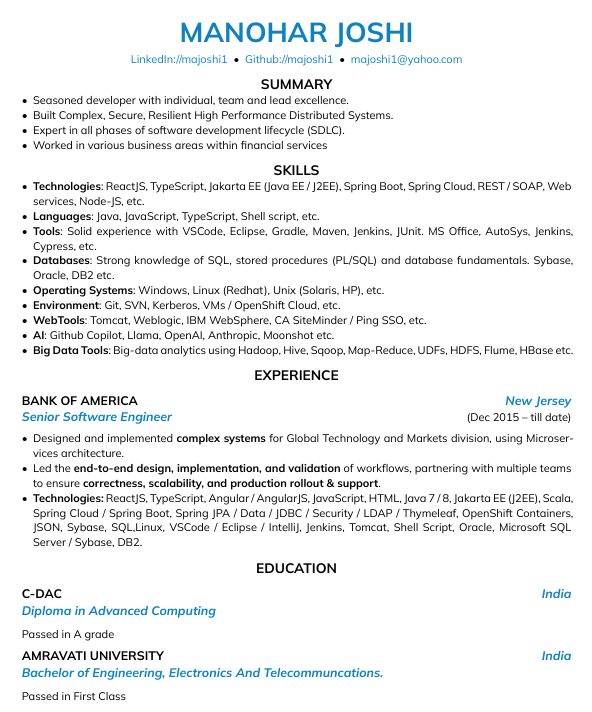
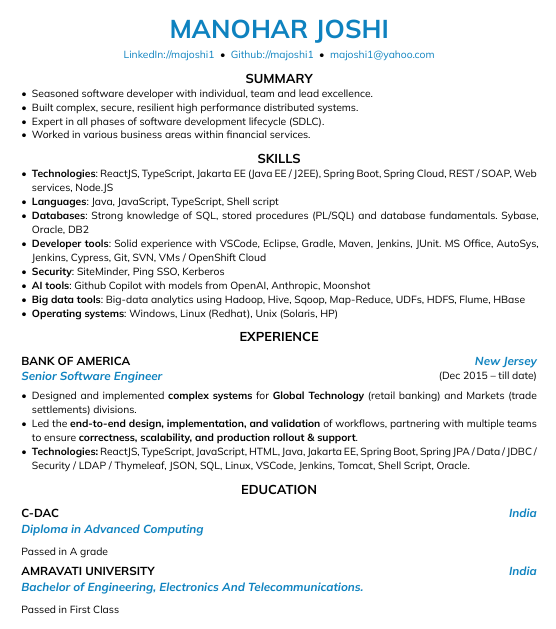
Update resume

diff --git a/resume.md b/resume.md
@@ -6,13 +6,13 @@
 • <majoshi1@yahoo.com>
 [**SUMMARY**]
 
-- Seasoned developer with individual, team and lead excellence.
+- Seasoned software developer with individual, team and lead excellence.
 
-- Built Complex, Secure, Resilient High Performance Distributed Systems.
+- Built complex, secure, resilient high performance distributed systems.
 
 - Expert in all phases of software development lifecycle (SDLC).
 
-- Worked in various business areas within financial services
+- Worked in various business areas within financial services.
 
 [**SKILLS**]
 
@@ -21,23 +21,22 @@
 
 - **Languages**: Java, JavaScript, TypeScript, Shell script
 
-- **Tools**: Solid experience with VSCode, Eclipse, Gradle, Maven,
-  Jenkins, JUnit. MS Office, AutoSys, Jenkins, Cypress
-
 - **Databases**: Strong knowledge of SQL, stored procedures (PL/SQL) and
   database fundamentals. Sybase, Oracle, DB2
 
-- **Operating Systems**: Windows, Linux (Redhat), Unix (Solaris, HP)
+- **Developer tools**: Solid experience with VSCode, Eclipse, Gradle,
+  Maven, Jenkins, JUnit. MS Office, AutoSys, Jenkins, Cypress, Git, SVN,
+  VMs / OpenShift Cloud
 
-- **Environment**: Git, SVN, Kerberos, VMs / OpenShift Cloud
+- **Security**: SiteMinder, Ping SSO, Kerberos
 
-- **WebTools**: Tomcat, Weblogic, IBM WebSphere, CA SiteMinder / Ping
-  SSO
+- **AI tools**: Github Copilot with models from OpenAI, Anthropic,
+  Moonshot
 
-- **AI**: Github Copilot, Llama, OpenAI, Anthropic, Moonshot
-
-- **Big Data Tools**: Big-data analytics using Hadoop, Hive, Sqoop,
+- **Big data tools**: Big-data analytics using Hadoop, Hive, Sqoop,
   Map-Reduce, UDFs, HDFS, Flume, HBase
+
+- **Operating systems**: Windows, Linux (Redhat), Unix (Solaris, HP)
 
 [**EXPERIENCE**]
 
@@ -51,19 +50,17 @@
 | Engineer**]        | date)]               |
 +-----------------------------------+-----------------------------------+
 
-- Designed and implemented **complex systems** for Global Technology and
-  Markets division, using Microservices architecture.
+- Designed and implemented **complex systems** for **Global Technology**
+  (retail banking) and Markets (trade settlements) divisions.
 
 - Led the **end-to-end design, implementation, and validation** of
   workflows, partnering with multiple teams to ensure **correctness,
   scalability, and production rollout & support**.
 
-- **Technologies:** ReactJS, TypeScript, Angular / AngularJS,
-  JavaScript, HTML, Java 7 / 8, Jakarta EE (J2EE), Scala, Spring Cloud /
-  Spring Boot, Spring JPA / Data / JDBC / Security / LDAP / Thymeleaf,
-  OpenShift Containers, JSON, Sybase, SQL, Linux, VSCode / Eclipse /
-  IntelliJ, Jenkins, Tomcat, Shell Script, Oracle, Microsoft SQL Server
-  / Sybase, DB2.
+- **Technologies:** ReactJS, TypeScript, JavaScript, HTML, Java, Jakarta
+  EE, Spring Boot, Spring JPA / Data / JDBC / Security / LDAP /
+  Thymeleaf, JSON, SQL, Linux, VSCode, Jenkins, Tomcat, Shell Script,
+  Oracle.
 
 [**EDUCATION**]
 
